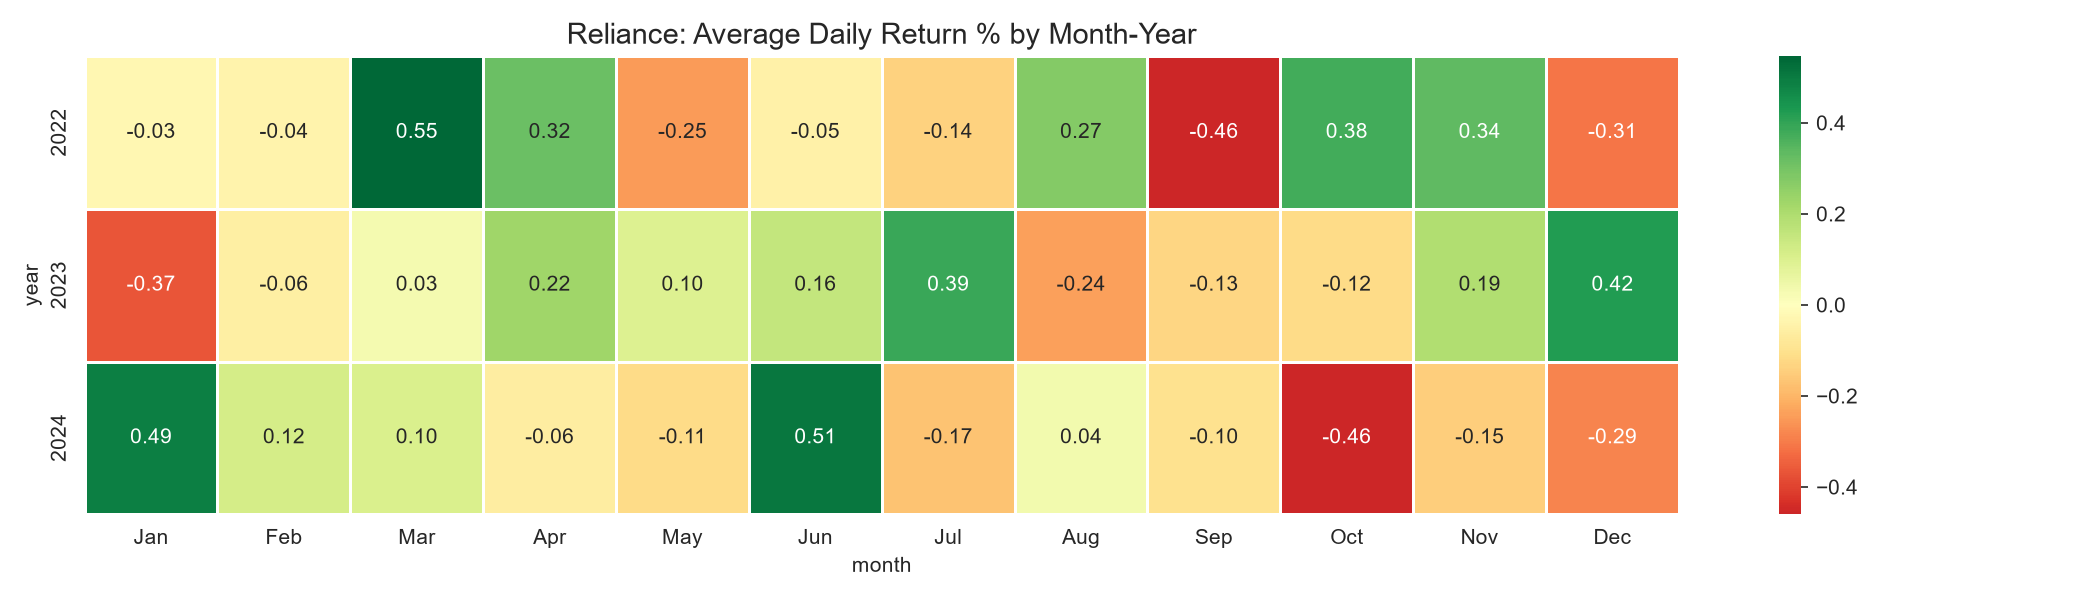
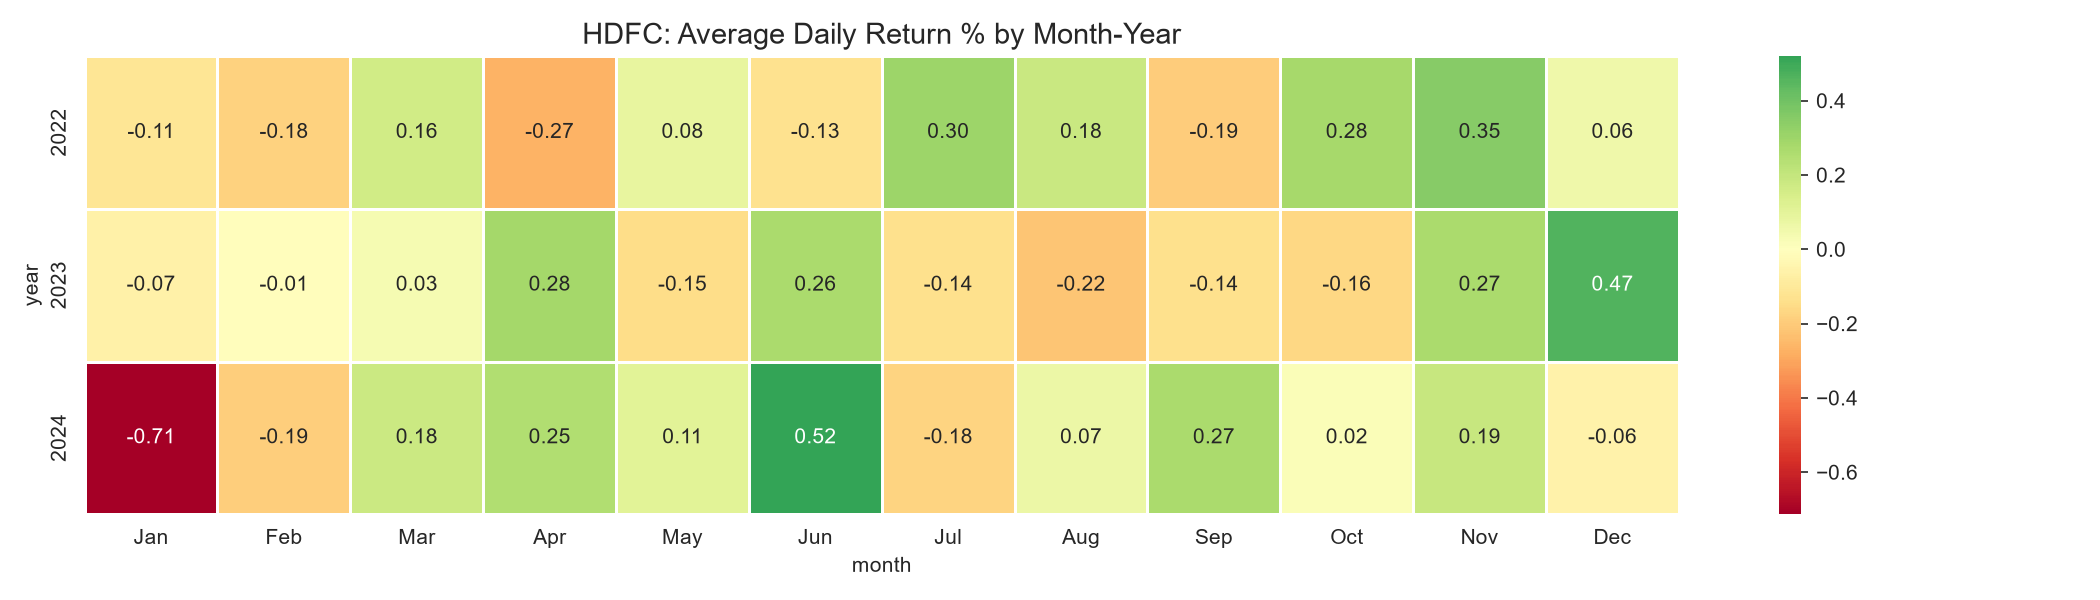
commit

diff --git a/visualize.py b/visualize.py
@@ -62,6 +62,30 @@ plt.show()
 # ============================================================
 # CHART 3: Monthly Return Heatmap (seaborn)
 # ============================================================
+df_r = pd.read_sql("SELECT date, daily_return_pct FROM hdfc", conn)
+df_r['date'] = pd.to_datetime(df_r['date'])
+df_r['month'] = df_r['date'].dt.month_name().str[:3]  # Jan, Feb, Mar...
+df_r['year'] = df_r['date'].dt.year
+
+# Pivot: rows=year, columns=month, values=avg return
+pivot = df_r.groupby(['year', 'month'])['daily_return_pct'].mean().unstack()
+
+# Reorder months correctly (Jan → Dec)
+month_order = ['Jan','Feb','Mar','Apr','May','Jun',
+               'Jul','Aug','Sep','Oct','Nov','Dec']
+pivot = pivot.reindex(columns=month_order)
+
+fig, ax = plt.subplots(figsize=(14, 4))
+sns.heatmap(pivot, annot=True, fmt='.2f', cmap='RdYlGn',
+            center=0, ax=ax, linewidths=0.5)
+ax.set_title('HDFC: Average Daily Return % by Month-Year', fontsize=14)
+plt.tight_layout()
+plt.savefig('outputs/03_monthly_heatmap.png', dpi=150)
+plt.show()
+
+# ============================================================
+# CHART 4: Monthly Return Heatmap (seaborn)
+# ============================================================
 df_r = pd.read_sql("SELECT date, daily_return_pct FROM reliance", conn)
 df_r['date'] = pd.to_datetime(df_r['date'])
 df_r['month'] = df_r['date'].dt.month_name().str[:3]  # Jan, Feb, Mar...
@@ -80,7 +104,7 @@ sns.heatmap(pivot, annot=True, fmt='.2f', cmap='RdYlGn',
             center=0, ax=ax, linewidths=0.5)
 ax.set_title('Reliance: Average Daily Return % by Month-Year', fontsize=14)
 plt.tight_layout()
-plt.savefig('outputs/03_monthly_heatmap.png', dpi=150)
+plt.savefig('outputs/04_monthly_heatmap.png', dpi=150)
 plt.show()
 
 conn.close()
